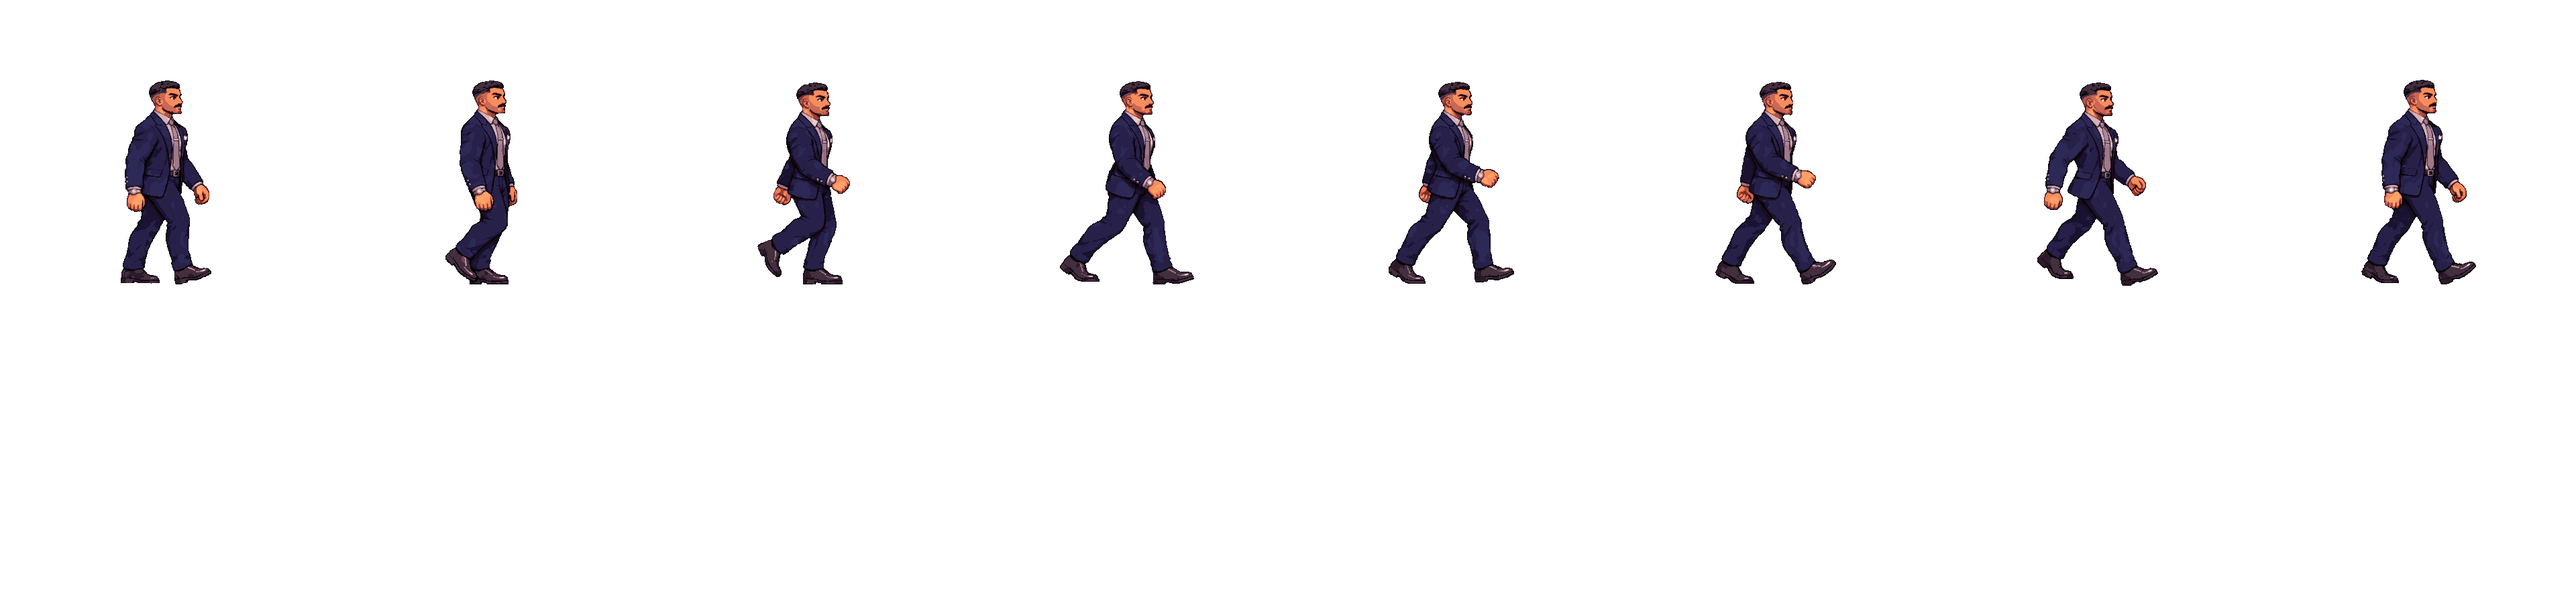
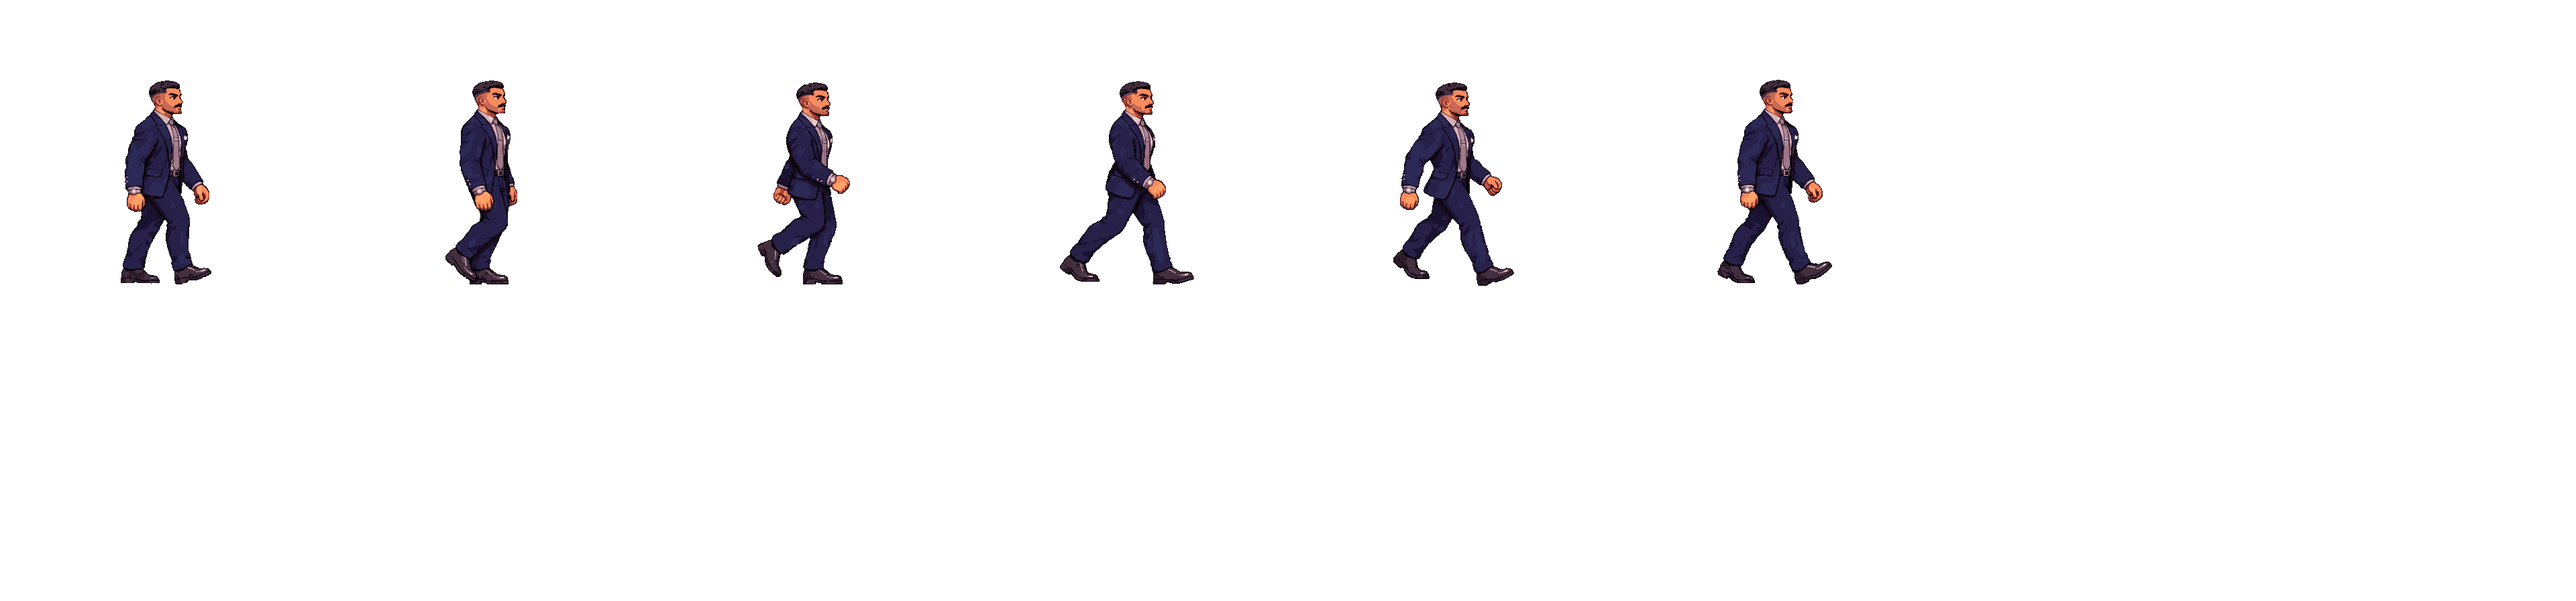
Enemies flank behind Zee and face their movement, pruned walk loops, navy occasional flex

diff --git a/src/enemy.js b/src/enemy.js
@@ -1,9 +1,9 @@
 // Enemy: a fighter with a small brain. It lines up with Zee, flanks, chains combos, sidesteps her swings, punishes her recovery,
 // throws call-centre headsets, and (navy + sporty, the "heavies") grabs and throws her.
 // Art comes from assets/characters/<id>/ ; every enemy shares this one brain.
-import { CONFIG } from './config.js?v=202611211857';
-import { frameAt, drawAnim, silhouette } from './assets.js?v=202611211857';
-import { SOFT } from './zee.js?v=202611211857';
+import { CONFIG } from './config.js?v=202611211930';
+import { frameAt, drawAnim, silhouette } from './assets.js?v=202611211930';
+import { SOFT } from './zee.js?v=202611211930';
 
 const E = CONFIG.enemy;
 const rnd = (a, b) => a + Math.random() * (b - a);
@@ -124,11 +124,11 @@ export class Enemy {
   // A change of facing waits a moment (and for the body to slow down), so a turn-around reads as a real turn.
   _facing(z, dt, moving) {
     let want = this.face;
-    if (moving && Math.abs(this.vw) > 14) want = sgn(this.vw);
-    else if (Math.abs(z.x - this.x) > 5) want = z.x > this.x ? 1 : -1;
+    if (moving && Math.abs(this.vw) > 10) want = sgn(this.vw);                 // always face the way it is walking
+    else if (Math.abs(z.x - this.x) > 5) want = z.x > this.x ? 1 : -1;          // standing: face her
     if (want === this.face) { this.turnT = 0; return; }
     this.turnT += dt;
-    if (this.turnT >= this.style.turn) { this.face = want; this.turnT = 0; }
+    if (this.turnT >= 0.05) { this.face = want; this.turnT = 0; }               // a quick turn, never walking backwards
   }
 
   _back(cd) { this.state = 'idle'; this._play('idle'); this.vw = 0; this.vh = 0; this.cool = Math.max(this.cool, cd / this.aggr); }
@@ -165,29 +165,34 @@ export class Enemy {
       this.evadeId = z.attackId;
       if (Math.random() < this.evadeChance) {
         this._faceZee(z); this.state = 'evade'; this.evadeT = 0.28; this._play('walk');
-        this.mx = -sgn(dx) * 0.9; this.my = (ady > 6 ? -sgn(dy) : (Math.random() < 0.5 ? 1 : -1)) * 1.1; return;
+        this.mx = 0; this.my = (ady > 6 ? -sgn(dy) : (Math.random() < 0.5 ? 1 : -1)) * 1.4; return;     // sidestep in depth (never back away)
       }
     }
-    // pick a spot: melee fighters stand in front of her on their own side; if that side is crowded they go around to the other
+    // ---- pick a spot (always closing in on her, never backing off) ----
+    // One enemy takes her front; the next one works round to her BACK (the side she is not facing) to hit her from behind.
+    // A lone enemy also tries to slip behind her now and then. To get round it detours through depth instead of walking through her.
     this.decideT -= dt; this.sideT -= dt;
+    const mySide = sgn(this.x - z.x), behind = -(z.face || 1);
     if (this.decideT <= 0) {
-      this.decideT = 0.18;
+      this.decideT = 0.15;
       if (this.sideT <= 0) {
-        const crowd = g.enemies.filter((o) => o !== this && o.state !== 'dead' && sgn(o.x - z.x) === this.side && Math.abs(o.x - z.x) < 90 && Math.abs(o.y - this.y) < 40).length;
-        if (crowd >= 1 && Math.random() < 0.7) { this.side = -this.side; this.sideT = 2.2; }       // flank
+        const front = g.enemies.some((o) => o !== this && !['dead', 'down', 'spawn'].includes(o.state) && sgn(o.x - z.x) === -behind && Math.abs(o.x - z.x) < 110);
+        if (front) this.side = behind;                                                                  // someone is already in her face: go round the back
+        else if (Math.random() < (this.heavy ? 0.25 : 0.4)) this.side = behind;                         // flank on my own
+        else this.side = mySide;
+        this.sideT = rnd(1.6, 2.8);
       }
-      const wait = g.attackerCount() >= g.maxAttackers && !this.attacking;                        // too many already attacking: circle and wait
-      let tx, mx = 0, my = 0;
+      const wait = g.attackerCount() >= g.maxAttackers && !this.attacking && this.side !== behind;   // the attack slots are full: hover just outside her reach (backstabbers never wait)
+      let mx = 0, my = 0;
       if (calm) { this.mx = 0; this.my = 0; }
       else {
-        if (this.prefersRange) {
-          const want = E.keepDistance * this.side;
-          tx = z.x + want;
-          if (adx < E.attackRange + 30) tx = z.x + this.side * (E.attackRange * 0.8);              // she is on top of me: fight
-        } else tx = z.x + this.side * (wait ? E.attackRange + 70 : E.attackRange * 0.8);
-        const ex = tx - this.x;
-        if (Math.abs(ex) > 7) mx = sgn(ex) * (this.heavy && Math.abs(ex) > 170 ? 1.35 : 1);       // heavies charge in from afar
-        if (ady > 5) my = sgn(dy) * 0.85;
+        const tx = z.x + this.side * (wait ? E.attackRange + 34 : E.attackRange * 0.8);
+        let ty = z.y;
+        if (mySide !== this.side && adx < 95) ty = z.y + (this.lane || (this.lane = (Math.random() < 0.5 ? -1 : 1))) * 34;   // going round her: swing out in depth first
+        else this.lane = 0;
+        const ex = tx - this.x, ey = ty - this.y;
+        if (Math.abs(ex) > 7) mx = sgn(ex) * (Math.abs(ex) > 170 ? 1.3 : 1);                            // charge in from afar
+        if (Math.abs(ey) > 5) my = sgn(ey) * (mySide !== this.side ? 1.2 : 0.85);
         this.mx = mx; this.my = my;
       }
     }
@@ -200,7 +205,10 @@ export class Enemy {
         if (Math.abs(ox) < 30 && Math.abs(oy) < 12) { const k = 1 - Math.abs(ox) / 30; tvx += (ox === 0 ? (this.id < o.id ? 1 : -1) : sgn(ox)) * 70 * k; tvy += (oy === 0 ? 1 : sgn(oy)) * 40 * k; }
       }
     }
-    if (this.turnT > 0) { tvx *= 0.25; tvy *= 0.5; }                  // braking while it turns round
+    if (!calm && adx > 140 && tvx !== 0 && sgn(tvx) !== sgn(dx)) tvx = 0;   // far from her: never drift further away
+    if (this.turnT > 0 || (Math.abs(this.vw) > 10 && Math.abs(tvx) > 10 && sgn(tvx) !== sgn(this.vw))) {   // turning round: stop, turn, then go
+      tvx = 0; tvy *= 0.6; if (Math.abs(this.vw) < 25) this.vw = 0;
+    }
     this._steer(tvx, tvy, dt);
     const spd = Math.hypot(this.vw, this.vh), moving = spd > 8;
     if (moving) {
@@ -213,17 +221,24 @@ export class Enemy {
     } else {
       this.still += dt;
       if (this.state === 'walk' && this.still > 0.15) { this.state = 'idle'; this._play('idle'); }
+      // navy shows off: every few seconds of standing he flexes and admires his bicep once, then back to his normal idle
+      if (this.anims.flex && this.state === 'idle') {
+        if (this.animName === 'flex') { if (this.done) this._play('idle'); }
+        else if (this.still > (this.flexAt || (this.flexAt = rnd(2.5, 5)))) { this._play('flex'); this.flexAt = this.still + rnd(4, 7); }
+      }
     }
     if (!calm) this._facing(z, dt, moving);
     if (calm || this.cool > 0 || z.state === 'held') return;
     // ---- choose an attack ----
     const inRange = adx < E.attackRange + 8 && ady < E.engageY + 4;
-    if (inRange && g.attackerCount() < g.maxAttackers) {
+    const atHerBack = sgn(this.x - z.x) === -(z.face || 1);                    // she is looking the other way: hit her from behind, no waiting
+    if (inRange && atHerBack) this.cool = Math.min(this.cool, 0.05);
+    if (inRange && (g.attackerCount() < g.maxAttackers || atHerBack)) {
       this._faceZee(z); this.turnT = 0;
       if (this.canGrab && Math.random() < E.grabChance && z.canBeGrabbed()) { this.state = 'grab'; this._play('grab'); g.sfx.grab(); return; }
       this.combo = this.combo > 0 ? this.combo : (Math.random() < 0.6 ? Math.floor(rnd(1, 3.4)) : 0);   // 0-2 follow-up hits
       this._startMelee(g);
-    } else if (!this.canGrab && adx > 130 && adx < 460 && ady < 9 && (this.prefersRange || Math.random() < 0.02)) {
+    } else if (!this.canGrab && adx > 130 && adx < 460 && ady < 9 && Math.random() < (this.prefersRange ? 0.05 : 0.015)) {   // a headset on the way in
       this.state = 'ranged'; this.fired = false; this._play('throw_headset'); this._faceZee(z);
     }
   }

diff --git a/src/main.js b/src/main.js
@@ -1,11 +1,11 @@
 // Game shell: loads Zee, runs the loop, draws the placeholder office + HUD, wires pause / touch UI / animation viewer.
-import { CONFIG } from './config.js?v=202611211857';
-import { loadCharacter, VERSION } from './assets.js?v=202611211857';
-import { Input } from './input.js?v=202611211857';
-import { Zee } from './zee.js?v=202611211857';
-import { Game } from './game.js?v=202611211857';
-import { ENEMY_IDS } from './enemy.js?v=202611211857';
-import { unlock } from './sfx.js?v=202611211857';
+import { CONFIG } from './config.js?v=202611211930';
+import { loadCharacter, VERSION } from './assets.js?v=202611211930';
+import { Input } from './input.js?v=202611211930';
+import { Zee } from './zee.js?v=202611211930';
+import { Game } from './game.js?v=202611211930';
+import { ENEMY_IDS } from './enemy.js?v=202611211930';
+import { unlock } from './sfx.js?v=202611211930';
 
 const { w: W, h: H } = CONFIG.view;
 const canvas = document.getElementById('game');

diff --git a/src/game.js b/src/game.js
@@ -1,8 +1,8 @@
 // Game world: Zee + enemies, combat resolution, projectiles and all the "juice" (hit flash, sparks, shake, hit-stop, sound).
-import { CONFIG } from './config.js?v=202611211857';
-import { Enemy } from './enemy.js?v=202611211857';
-import { SOFT } from './zee.js?v=202611211857';
-import { sfx } from './sfx.js?v=202611211857';
+import { CONFIG } from './config.js?v=202611211930';
+import { Enemy } from './enemy.js?v=202611211930';
+import { SOFT } from './zee.js?v=202611211930';
+import { sfx } from './sfx.js?v=202611211930';
 
 const E = CONFIG.enemy;
 

diff --git a/src/zee.js b/src/zee.js
@@ -1,7 +1,7 @@
 // Zee: the player character. A small state machine driven by input actions.
 // Movement, combat timing, and animation selection live here; art comes from the manifest (assets.js).
-import { CONFIG } from './config.js?v=202611211857';
-import { frameAt, drawAnim, silhouette } from './assets.js?v=202611211857';
+import { CONFIG } from './config.js?v=202611211930';
+import { frameAt, drawAnim, silhouette } from './assets.js?v=202611211930';
 
 const C = CONFIG.zee;
 const FREE = new Set(['idle', 'walk', 'run', 'makeup']);

diff --git a/src/assets.js b/src/assets.js
@@ -1,6 +1,6 @@
 // Loads a character's manifest + strips and turns them into ready-to-play animation objects.
 // To swap art, replace the PNG strips / manifest in assets/characters/<name>/ - no code changes needed.
-import { CONFIG } from './config.js?v=202611211857';
+import { CONFIG } from './config.js?v=202611211930';
 
 // Release stamp, taken from this module's own URL (?v=...): every release uses new URLs so browsers never serve stale files.
 export const VERSION = new URL(import.meta.url).searchParams.get('v') || 'dev';

diff --git a/src/input.js b/src/input.js
@@ -1,6 +1,6 @@
 // Unified input: keyboard on PC/laptop, floating joystick + buttons on touch devices.
 // The game only reads: input.axis (x,y in -1..1), input.run, and input.consume() (one-shot actions).
-import { CONFIG } from './config.js?v=202611211857';
+import { CONFIG } from './config.js?v=202611211930';
 
 export class Input {
   constructor(root = document) {

diff --git a/index.html b/index.html
@@ -125,7 +125,7 @@
 <div id="rotate"><div><h2>Rotate your phone</h2><p style="color:var(--mute)">This game plays in landscape.</p></div></div>
 <div id="loading">Loading Zee...</div>
 
-<script type="module" src="src/main.js?v=202611211857"></script>
+<script type="module" src="src/main.js?v=202611211930"></script>
 </body>
 </html>
 

diff --git a/HANDOFF.md b/HANDOFF.md
@@ -24,3 +24,5 @@ The original Claude Code session ("Office Mayhem game design") disconnected whil
 After any work, add a dated line under "Decisions and changes" and adjust "Next steps".
 
 - 2026-11-21 (walk redraw): regenerated two-step walk sheets for all 8 enemies (+ navy flex idle sheet 'f') via ChatGPT; raw in sprites/agents/raw/<id>_w.png, navy_f.png. tools/order-walk.ps1 now drops standing-still frames, finds the smoothest closed loop and rewrites manifest walk frames/fps (per-enemy manual drops in tools/walk-drop-<id>.txt, e.g. sporty). tools/legid.ps1 = experimental near/far leg detector (too weak on dark clothes, not used). Known limit: near/far leg identity can't be verified automatically; loops were checked by eye frame by frame.
+
+- 2026-11-21 (AI+walk pass): enemies always close in (no retreat/keep-distance), one takes Zee's front while others go round her back (depth detour), attack instantly from behind, always face their walking direction (no backwards walking; evade = depth sidestep). Walk loops pruned of near-duplicate frames (tools/walk-drop-<id>.txt from visual review; order-walk also auto-prunes). Navy: normal idle + occasional bicep flex ('flex' anim).
